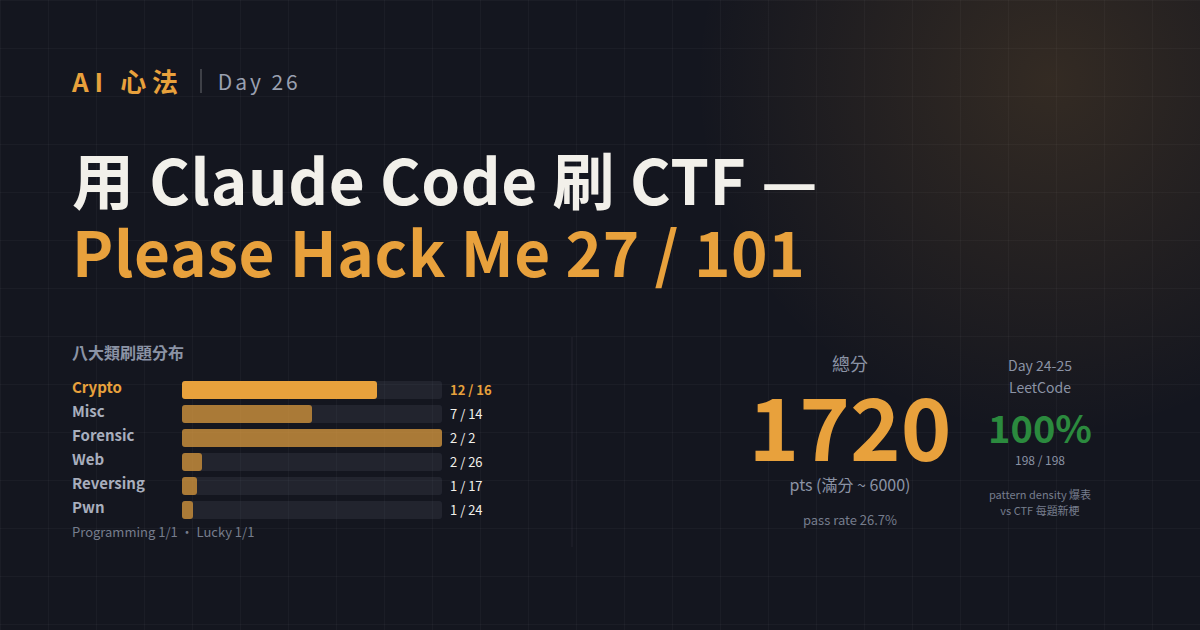
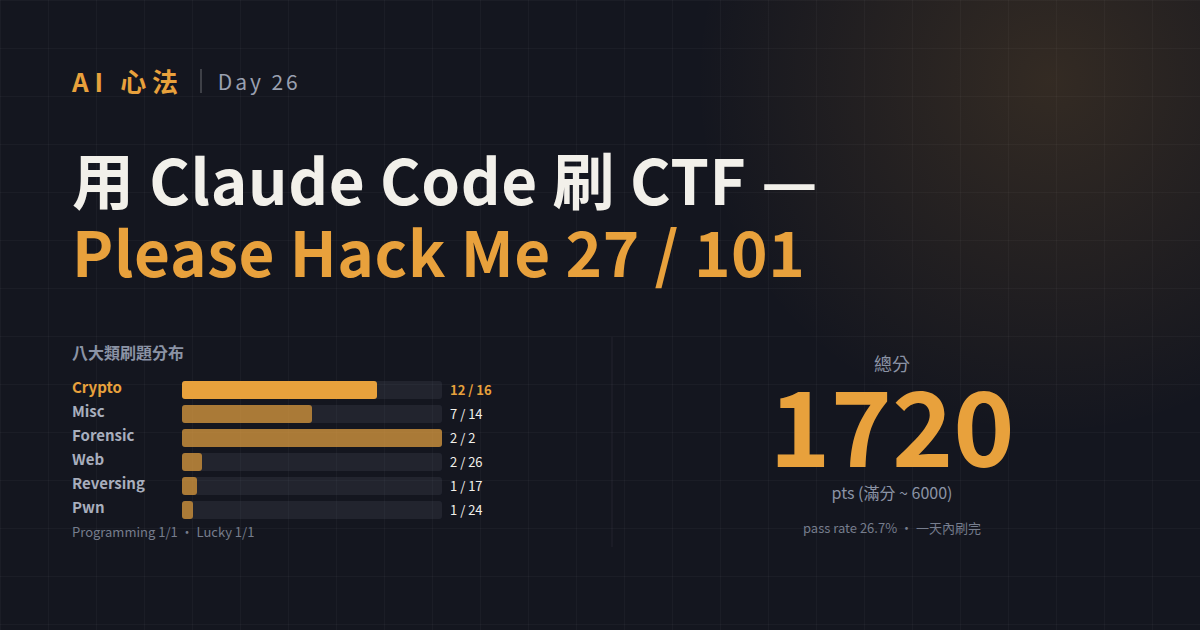
ironman: day26 draft + cover 把 LeetCode 全拿掉
draft:
- 開頭 NOTE 拿掉 Day 24-25 的引用
- 流程段「不像 LeetCode」改成「沒有統一提交 API」
- 「哪裡得自己來」結尾段整段拿掉 (原本比 LeetCode)
- 收斂表重寫成 agent 三種水位 (吃爆 / 有條件吃 / 真卡住)
- 心智清單 + Sources 跟著清

cover:
- 右半 LeetCode 100% 對照面板拿掉, 1720 pts 放大置中

Changed region(s): [[0.6167, 0.5429, 0.925, 0.8444], [0.8325, 0.7841, 0.925, 0.8444]]

diff --git a/05-notes/ironman/assets/day26-30/cover-day26.html b/05-notes/ironman/assets/day26-30/cover-day26.html
@@ -70,21 +70,13 @@ text{font-family:"Noto Sans CJK TC",sans-serif}
     <text x="0" y="200" fill="#767d8d" font-size="13">Programming 1/1 · Lucky 1/1</text>
 
     <!-- Divider -->
-    <line x1="500" y1="0" x2="500" y2="210" stroke="#5b617033" stroke-width="1"/>
+    <line x1="540" y1="0" x2="540" y2="210" stroke="#5b617033" stroke-width="1"/>
 
     <!-- 右半: hero 分數 -->
-    <text x="778" y="34" fill="#8b93a5" font-size="18" text-anchor="middle">總分</text>
-    <text x="778" y="124" fill="#e8a13c" font-size="86" font-weight="900" text-anchor="middle">1720</text>
-    <text x="778" y="154" fill="#8b93a5" font-size="16" text-anchor="middle">pts (滿分 ~ 6000)</text>
-    <text x="778" y="188" fill="#767d8d" font-size="13" text-anchor="middle">pass rate 26.7%</text>
-
-    <!-- 右半: 對照 LeetCode 198 100% -->
-    <text x="968" y="34" fill="#8b93a5" font-size="14" text-anchor="middle">Day 24-25</text>
-    <text x="968" y="56" fill="#8b93a5" font-size="14" text-anchor="middle">LeetCode</text>
-    <text x="968" y="106" fill="#2b8a3e" font-size="38" font-weight="900" text-anchor="middle">100%</text>
-    <text x="968" y="128" fill="#8b93a5" font-size="12" text-anchor="middle">198 / 198</text>
-    <text x="968" y="162" fill="#767d8d" font-size="11" text-anchor="middle">pattern density 爆表</text>
-    <text x="968" y="178" fill="#767d8d" font-size="11" text-anchor="middle">vs CTF 每題新梗</text>
+    <text x="820" y="34" fill="#8b93a5" font-size="18" text-anchor="middle">總分</text>
+    <text x="820" y="130" fill="#e8a13c" font-size="104" font-weight="900" text-anchor="middle">1720</text>
+    <text x="820" y="162" fill="#8b93a5" font-size="16" text-anchor="middle">pts (滿分 ~ 6000)</text>
+    <text x="820" y="196" fill="#767d8d" font-size="13" text-anchor="middle">pass rate 26.7% · 一天內刷完</text>
   </svg>
   </div>
 </div></body></html>
